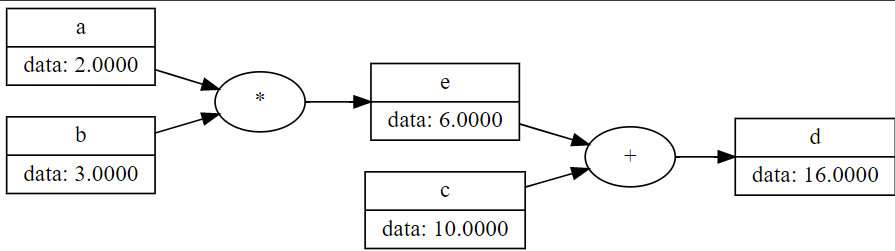
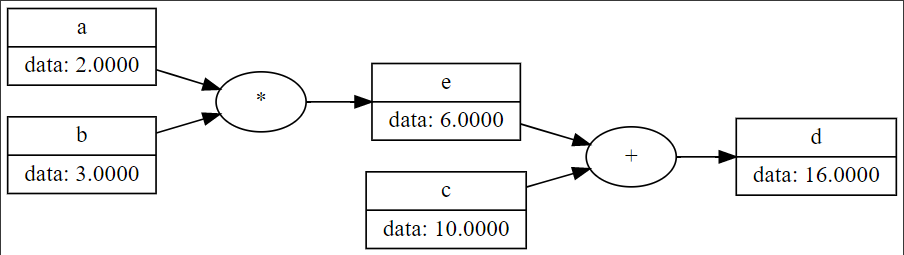
updated the readme

diff --git a/README.md b/README.md
@@ -53,7 +53,7 @@ class Value:
   src="comp_graph.png"
   alt="Alt text"
   title="Optional title"
-  style="display: block; align: center; margin: 0 auto; max-width: 220px">
+  style="display: block; align: center; margin: 0 auto; max-width: 200px">
 
 #### How to Use This Repo
 
